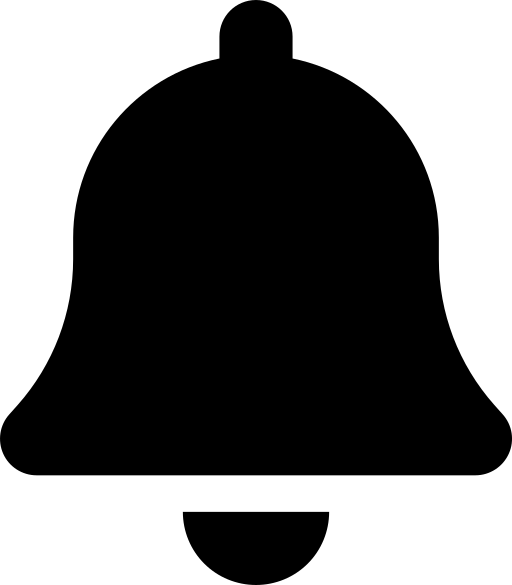
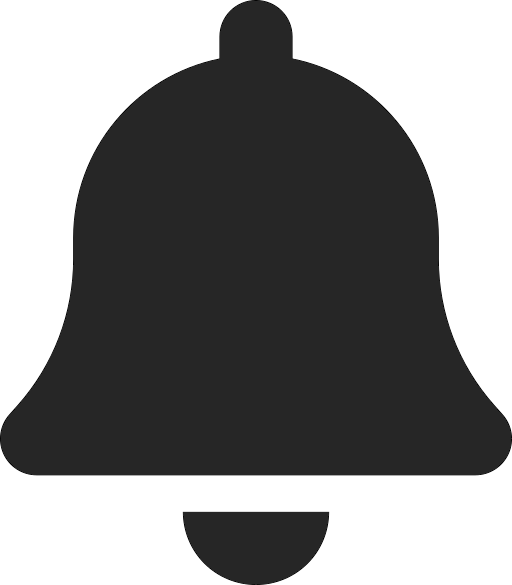
Inicio de la rama, mejoras UI

diff --git a/src/main/resources/org/luubstar/lsdatabase/light.css b/src/main/resources/org/luubstar/lsdatabase/light.css
@@ -1,0 +1,64 @@
+.formpanel{
+    -fx-border-width: 0px;
+    -fx-background-color: transparent;
+}
+
+.navigatorButton{
+    -fx-border-radius: 10px;
+    -fx-background-radius: 10px;
+    -fx-background-color: #f9c593;
+    -fx-border-color: #fb7968;
+    -fx-border-width: 1.5px;
+    -fx-effect: dropshadow(gaussian, #AFAFAF, 3,0,0,3);
+}
+
+.topbar{
+    -fx-background-color: lightgray;
+    -fx-border-color: gray;
+    -fx-border-width: 1px;
+}
+
+.dropzone{
+    -fx-border-color: gray;
+    -fx-padding: 70px;
+    -fx-alignment: center;
+}
+
+
+.scroll-pane > .viewport {
+    -fx-background-color: transparent;
+    -fx-border-width: 0px;
+}
+
+.notification {
+    -fx-background-color: transparent;
+    -fx-text-fill: black;
+}
+
+.notification:hover{
+    -fx-background-color: transparent;
+    -fx-text-fill: black;
+   }
+
+.background{
+    -fx-background-color: #fafad4;
+}
+
+.sidepanel{
+    -fx-background-color: #efefbc;
+    -fx-border-width: 0px 1px 0px 0px;
+    -fx-border-color: black;
+}
+
+.input{
+    -fx-border-width: 0px 0px 2px 0px;
+}
+
+.actionbuttons{
+    -fx-border-radius: 10px;
+    -fx-background-radius: 10px;
+    -fx-background-color: green;
+    -fx-border-color: darkgreen;
+    -fx-border-width: 1.5px;
+    -fx-effect: dropshadow(gaussian, #AFAFAF, 2,0,0,2);
+}

diff --git a/src/main/java/org/luubstar/lsdatabase/Utils/ChangePanel.java b/src/main/java/org/luubstar/lsdatabase/Utils/ChangePanel.java
@@ -1,8 +1,10 @@
 package org.luubstar.lsdatabase.Utils;
 
+import javafx.animation.FadeTransition;
 import javafx.fxml.FXMLLoader;
 import javafx.scene.Parent;
 import javafx.scene.layout.*;
+import javafx.util.Duration;
 import org.luubstar.lsdatabase.App;
 import org.luubstar.lsdatabase.MainController;
 import org.luubstar.lsdatabase.SidePanel;
@@ -38,13 +40,37 @@ public class ChangePanel {
 
     public static void changeContent(Panel panel){
         int index = PANEL_NOMBRES.indexOf(panel);
-        if(MainController.index != index) {
-           for(Parent p : paneles){p.setVisible(false);}
-           paneles[index].setVisible(true);
-           MainController.index = index;
-           try{controllers[index].start();}
-           catch (Exception e){logger.debug("El controlador {} no está asignado",PANEL_NOMBRES.get(index).toString());}
+        for (Parent p : paneles){
+            if (MainController.index != -1 && p != paneles[MainController.index]){p.setVisible(false); p.setOpacity(0f);}
         }
+
+        if(MainController.index != index) {
+            if(MainController.index != -1){
+                FadeTransition fadeOut = getFadeTransition(index);
+                fadeOut.play();
+            }
+            else{paneles[index].setVisible(true);}
+            MainController.index = index;
+            try{controllers[index].start();}
+            catch (Exception e){logger.debug("El controlador {} no está asignado",PANEL_NOMBRES.get(index).toString());}
+        }
+    }
+
+    private static FadeTransition getFadeTransition(int index) {
+        FadeTransition fadeOut = new FadeTransition(Duration.millis(125), paneles[MainController.index]);
+        fadeOut.setFromValue(1.0);
+        fadeOut.setToValue(0.0);
+
+        FadeTransition fadeIn = new FadeTransition(Duration.millis(125), paneles[index]);
+        fadeIn.setFromValue(0.0);
+        fadeIn.setToValue(1.0);
+
+        fadeOut.setOnFinished(event -> {
+            paneles[MainController.index].setVisible(false);
+            paneles[index].setVisible(true);
+            fadeIn.play();
+        });
+        return fadeOut;
     }
 
     public static SidePanel getController(Panel panel){

diff --git a/src/main/java/org/luubstar/lsdatabase/AddController.java b/src/main/java/org/luubstar/lsdatabase/AddController.java
@@ -17,12 +17,15 @@ import org.luubstar.lsdatabase.Utils.Dropzone;
 import org.luubstar.lsdatabase.Utils.Database.Tabla;
 import org.luubstar.lsdatabase.Utils.Panel;
 import org.luubstar.lsdatabase.Utils.Popup;
+import org.slf4j.Logger;
+import org.slf4j.LoggerFactory;
 
 import java.io.IOException;
 import java.net.URL;
 import java.util.*;
 
 public class AddController implements SidePanel {
+    private static final Logger log = LoggerFactory.getLogger(AddController.class);
     @FXML
     VBox pane;
     @FXML
@@ -58,6 +61,7 @@ public class AddController implements SidePanel {
         f.getFields().getFirst().required(true);
 
         renderer = new FormRenderer(f);
+        renderer.getChildren().getFirst().getStyleClass().add("formpanel");
 
         pane.getChildren().setAll(renderer);
 
@@ -83,6 +87,7 @@ public class AddController implements SidePanel {
     public void clear(){
         lista = formByTable(Database.actual);
         renderer = new FormRenderer(Form.of(Group.of(lista.toArray(new Element[0]))).title(Database.actual.nombre()));
+        renderer.getChildren().getFirst().getStyleClass().add("formpanel");
         pane.getChildren().setAll(renderer);
     }
 

diff --git a/src/main/java/org/luubstar/lsdatabase/App.java b/src/main/java/org/luubstar/lsdatabase/App.java
@@ -34,7 +34,7 @@ public class App extends Application {
 
             FXMLLoader fxmlLoader = new FXMLLoader(App.class.getResource("Main.fxml"));
             Scene scene = new Scene(fxmlLoader.load());
-            scene.getStylesheets().add(Objects.requireNonNull(getClass().getResource("demo.css")).toExternalForm());
+            scene.getStylesheets().add(Objects.requireNonNull(getClass().getResource("light.css")).toExternalForm());
             stage.setTitle("Database");
 
             stage.setMinWidth(1050);

diff --git a/src/main/java/org/luubstar/lsdatabase/RecordatoriosController.java b/src/main/java/org/luubstar/lsdatabase/RecordatoriosController.java
@@ -52,6 +52,7 @@ public class RecordatoriosController implements SidePanel {
     private void render(Form f){
         pane.getChildren().clear();
         FormRenderer renderer = new FormRenderer(f);
+        renderer.getChildren().getFirst().getStyleClass().add("formpanel");
         pane.getChildren().add(renderer);
     }
 
